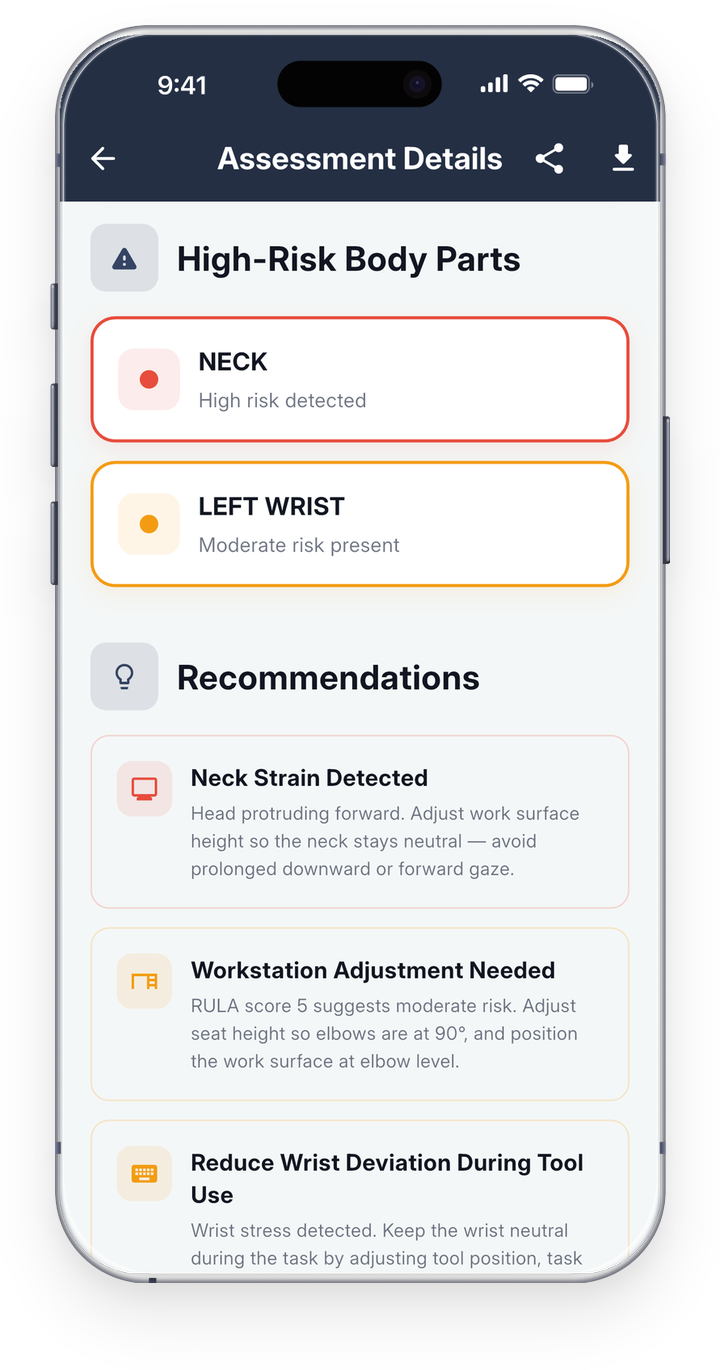
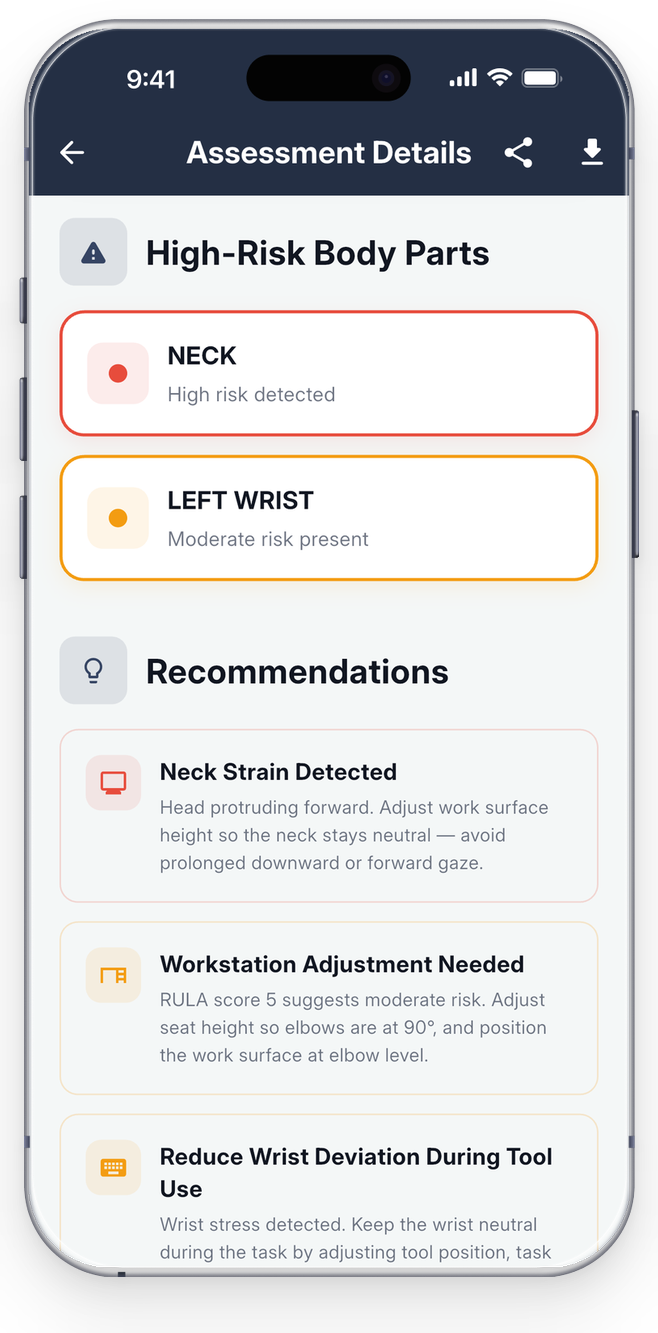
Add files via upload

diff --git a/index.html b/index.html
@@ -179,13 +179,13 @@
     .risk-vhi{background:rgba(153,27,27,.25);color:#fca5a5;border:1px solid rgba(153,27,27,.3)}
     .risk-bar-label{font-size:12px;color:rgba(214,226,226,.4);font-weight:400;width:100%;text-align:center;margin-top:2px}
     /* phone mockups (frame + screen baked into each PNG) — sizes match original */
-    .feature-iphone{position:relative;width:279px;max-width:unset;display:block}
-    .feature-iphone.side{width:244px}
-    .feature-iphone.center{width:279px}
-    .feature-visual-wrap .feature-iphone{width:244px}
+    .feature-iphone{position:relative;width:255px;max-width:unset;display:block}
+    .feature-iphone.side{width:223px}
+    .feature-iphone.center{width:255px}
+    .feature-visual-wrap .feature-iphone{width:223px}
     .phone-img{display:block;width:100%;height:auto}
     @media(max-width:640px){
-      .feature-iphone,.feature-iphone.side{width:29vw}
+      .feature-iphone,.feature-iphone.side{width:29.5vw}
       .feature-iphone.center{width:34vw}
       .feature-visual-wrap .feature-iphone{width:100%;max-width:220px}
       .tools-grid{grid-template-columns:repeat(3,1fr);gap:8px}.hero-risk-bar{gap:6px}.risk-bar-label{font-size:11px}}
@@ -357,6 +357,12 @@
     /* RESPONSIVE */
     /* ===== iPad / tablet 641-1024px ===== */
     @media(min-width:641px) and (max-width:1024px){
+      .phones-row{gap:0;margin-bottom:-3%}
+      .hero{padding-bottom:32px}
+      .users-section{padding-top:56px}
+      .feature-iphone.side{width:196px}
+      .feature-iphone.center{width:224px}
+      .feature-visual-wrap .feature-iphone{width:196px}
       footer{padding:52px 4% 26px}
       .footer-top{gap:28px 32px}
       .footer-brand{flex:1 1 100%;margin-bottom:4px}
@@ -374,10 +380,10 @@
       .contact-inner{gap:48px}
     }
     @media(max-width:900px){
-      .feature-iphone{width:232px}
-      .feature-iphone.side{width:209px}
-      .feature-iphone.center{width:232px}
-      .feature-visual-wrap .feature-iphone{width:209px}
+      .feature-iphone{width:212px}
+      .feature-iphone.side{width:191px}
+      .feature-iphone.center{width:212px}
+      .feature-visual-wrap .feature-iphone{width:191px}
       .feat-grid{grid-template-columns:repeat(2,1fr)}
       .feature-block{grid-template-columns:1fr;gap:40px}
       .feature-block.reverse .feature-content{order:0}
@@ -389,14 +395,18 @@
       .industry-grid{grid-template-columns:repeat(2,auto)}
     }
     @media(max-width:640px){
-      .phones-row{gap:0;padding:0 1%;justify-content:center;align-items:flex-end;overflow:visible}
+      .hero{padding-bottom:0}
+      .users-section{padding-top:40px}
+      [data-aos]{opacity:1!important;transform:none!important;transition:none!important;animation:none!important}
+      .feature-block{gap:28px}
+      .phones-row{gap:0;padding:0;justify-content:center;align-items:flex-end;overflow:visible;margin-bottom:-4%}
       .iphone-wrap{transform:perspective(700px) rotateY(8deg) translateY(10px)!important;flex-shrink:1;min-width:0}
       .iphone-wrap:last-child{transform:perspective(700px) rotateY(-8deg) translateY(10px)!important}
       .iphone-wrap.center-phone{transform:none!important}
       .iphone-wrap:hover,.iphone-wrap:last-child:hover,.iphone-wrap.center-phone:hover{transform:inherit!important}
-      .feature-iphone,.feature-iphone.side{width:29vw}
+      .feature-iphone,.feature-iphone.side{width:29.5vw}
       .feature-iphone.center{width:34vw}
-      .feature-visual-wrap .feature-iphone{width:100%;max-width:232px}
+      .feature-visual-wrap .feature-iphone{width:100%;max-width:250px}
       footer{padding:44px 6% 24px}
       .footer-top{flex-direction:column;gap:26px;margin-bottom:32px}
       .footer-brand{flex:1 1 auto}
@@ -429,9 +439,9 @@
       .industry-pill{padding:10px 16px;font-size:13px}
     }
     @media(max-width:400px){
-      .feature-iphone,.feature-iphone.side{width:28vw}
-      .feature-iphone.center{width:31vw}
-      .feature-visual-wrap .feature-iphone{width:100%;max-width:232px}
+      .feature-iphone,.feature-iphone.side{width:28.5vw}
+      .feature-iphone.center{width:33vw}
+      .feature-visual-wrap .feature-iphone{width:100%;max-width:250px}
       section{padding:64px 4%}
       .users-grid,.blog-grid,.feat-grid{grid-template-columns:1fr}
       .user-card,.feat-card{padding:24px 18px}
